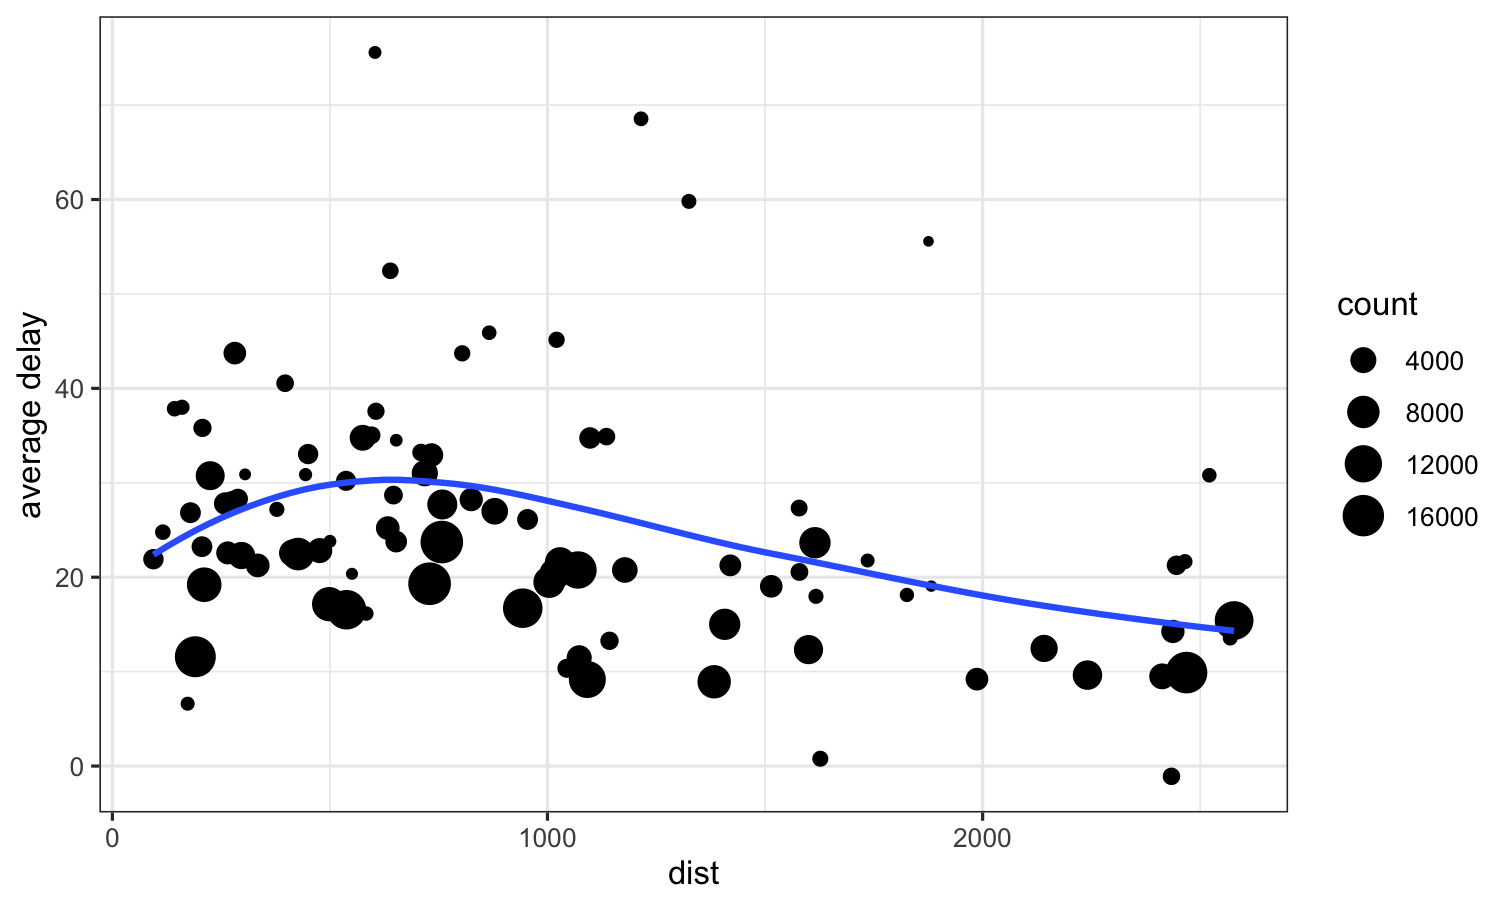
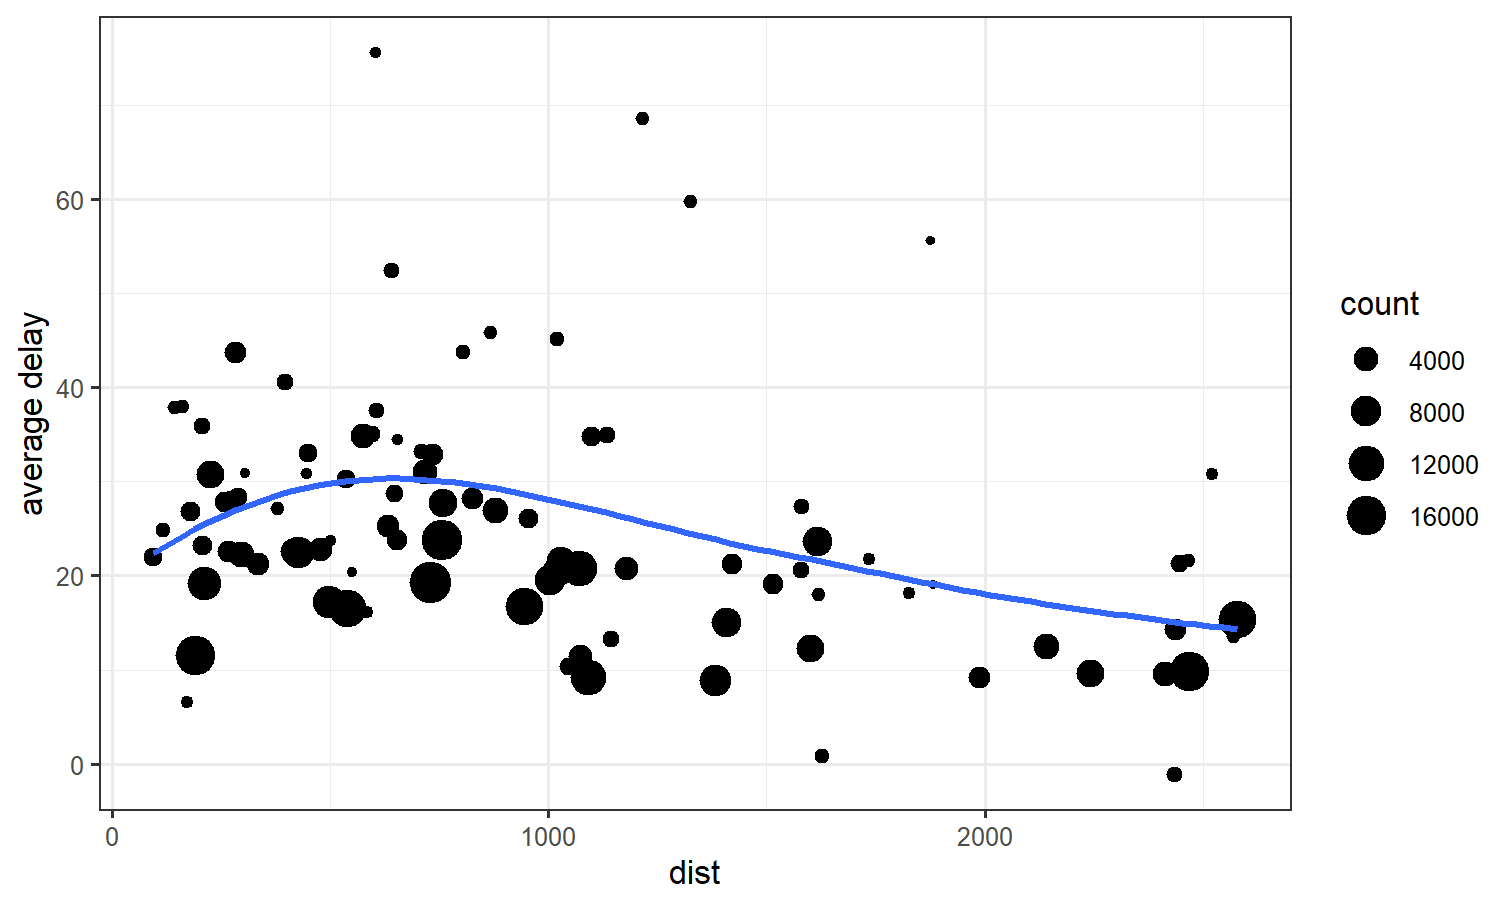
Minor cosmetic changes

diff --git a/intro_wrangling.html b/intro_wrangling.html
@@ -55,10 +55,10 @@ flights
 ## 4  2013     1     1      544            545        -1     1004
 ## 5  2013     1     1      554            600        -6      812
 ## 6  2013     1     1      554            558        -4      740
-## # … with 3.368e+05 more rows, and 12 more variables: sched_arr_time &lt;int&gt;,
-## #   arr_delay &lt;dbl&gt;, carrier &lt;chr&gt;, flight &lt;int&gt;, tailnum &lt;chr&gt;,
-## #   origin &lt;chr&gt;, dest &lt;chr&gt;, air_time &lt;dbl&gt;, distance &lt;dbl&gt;, hour &lt;dbl&gt;,
-## #   minute &lt;dbl&gt;, time_hour &lt;dttm&gt;
+## # ... with 3.368e+05 more rows, and 12 more variables:
+## #   sched_arr_time &lt;int&gt;, arr_delay &lt;dbl&gt;, carrier &lt;chr&gt;, flight &lt;int&gt;,
+## #   tailnum &lt;chr&gt;, origin &lt;chr&gt;, dest &lt;chr&gt;, air_time &lt;dbl&gt;,
+## #   distance &lt;dbl&gt;, hour &lt;dbl&gt;, minute &lt;dbl&gt;, time_hour &lt;dttm&gt;
 ```
 ---
 #filter()
@@ -78,7 +78,7 @@ filter(flights, month == 8, day == 21)
 ## 4  2013     8    21      453            500        -7      634
 ## 5  2013     8    21      528            530        -2      757
 ## 6  2013     8    21      536            545        -9      808
-## # … with 984 more rows, and 12 more variables: sched_arr_time &lt;int&gt;,
+## # ... with 984 more rows, and 12 more variables: sched_arr_time &lt;int&gt;,
 ## #   arr_delay &lt;dbl&gt;, carrier &lt;chr&gt;, flight &lt;int&gt;, tailnum &lt;chr&gt;,
 ## #   origin &lt;chr&gt;, dest &lt;chr&gt;, air_time &lt;dbl&gt;, distance &lt;dbl&gt;, hour &lt;dbl&gt;,
 ## #   minute &lt;dbl&gt;, time_hour &lt;dttm&gt;
@@ -106,7 +106,7 @@ filter(august21, origin == 'JFK' | origin == 'LGA')
 ## 4  2013     8    21      536            545        -9      808
 ## 5  2013     8    21      540            540         0      837
 ## 6  2013     8    21      544            545        -1      911
-## # … with 631 more rows, and 12 more variables: sched_arr_time &lt;int&gt;,
+## # ... with 631 more rows, and 12 more variables: sched_arr_time &lt;int&gt;,
 ## #   arr_delay &lt;dbl&gt;, carrier &lt;chr&gt;, flight &lt;int&gt;, tailnum &lt;chr&gt;,
 ## #   origin &lt;chr&gt;, dest &lt;chr&gt;, air_time &lt;dbl&gt;, distance &lt;dbl&gt;, hour &lt;dbl&gt;,
 ## #   minute &lt;dbl&gt;, time_hour &lt;dttm&gt;
@@ -134,7 +134,7 @@ filter(august21_jfk_lga, arr_delay &gt; 10 | dep_delay &gt; 10)
 ## 4  2013     8    21      555            600        -5      839
 ## 5  2013     8    21      558            600        -2      830
 ## 6  2013     8    21      625            600        25      903
-## # … with 100 more rows, and 12 more variables: sched_arr_time &lt;int&gt;,
+## # ... with 100 more rows, and 12 more variables: sched_arr_time &lt;int&gt;,
 ## #   arr_delay &lt;dbl&gt;, carrier &lt;chr&gt;, flight &lt;int&gt;, tailnum &lt;chr&gt;,
 ## #   origin &lt;chr&gt;, dest &lt;chr&gt;, air_time &lt;dbl&gt;, distance &lt;dbl&gt;, hour &lt;dbl&gt;,
 ## #   minute &lt;dbl&gt;, time_hour &lt;dttm&gt;
@@ -159,7 +159,7 @@ flights %&gt;% filter(month == 8 &amp; day == 21) %&gt;%
 ## 4  2013     8    21      555            600        -5      839
 ## 5  2013     8    21      558            600        -2      830
 ## 6  2013     8    21      625            600        25      903
-## # … with 100 more rows, and 12 more variables: sched_arr_time &lt;int&gt;,
+## # ... with 100 more rows, and 12 more variables: sched_arr_time &lt;int&gt;,
 ## #   arr_delay &lt;dbl&gt;, carrier &lt;chr&gt;, flight &lt;int&gt;, tailnum &lt;chr&gt;,
 ## #   origin &lt;chr&gt;, dest &lt;chr&gt;, air_time &lt;dbl&gt;, distance &lt;dbl&gt;, hour &lt;dbl&gt;,
 ## #   minute &lt;dbl&gt;, time_hour &lt;dttm&gt;
@@ -292,10 +292,10 @@ arrange(flights_dest, dest, month, day)
 ## 4 ABQ    2013     4    25     2023           2025        -2     2339
 ## 5 ABQ    2013     4    26     2020           2025        -5     2318
 ## 6 ABQ    2013     4    27     2020           2025        -5     2245
-## # … with 3.368e+05 more rows, and 11 more variables: sched_arr_time &lt;int&gt;,
-## #   arr_delay &lt;dbl&gt;, carrier &lt;chr&gt;, flight &lt;int&gt;, tailnum &lt;chr&gt;,
-## #   origin &lt;chr&gt;, air_time &lt;dbl&gt;, distance &lt;dbl&gt;, hour &lt;dbl&gt;,
-## #   minute &lt;dbl&gt;, time_hour &lt;dttm&gt;
+## # ... with 3.368e+05 more rows, and 11 more variables:
+## #   sched_arr_time &lt;int&gt;, arr_delay &lt;dbl&gt;, carrier &lt;chr&gt;, flight &lt;int&gt;,
+## #   tailnum &lt;chr&gt;, origin &lt;chr&gt;, air_time &lt;dbl&gt;, distance &lt;dbl&gt;,
+## #   hour &lt;dbl&gt;, minute &lt;dbl&gt;, time_hour &lt;dttm&gt;
 ```
 ---
 class: clear
@@ -315,10 +315,10 @@ arrange(flights_dest, desc(dest), month, day)
 ## 4 XNA    2013     1     2      656            705        -9     1014
 ## 5 XNA    2013     1     2      905            822        43     1313
 ## 6 XNA    2013     1     2     1531           1530         1     1846
-## # … with 3.368e+05 more rows, and 11 more variables: sched_arr_time &lt;int&gt;,
-## #   arr_delay &lt;dbl&gt;, carrier &lt;chr&gt;, flight &lt;int&gt;, tailnum &lt;chr&gt;,
-## #   origin &lt;chr&gt;, air_time &lt;dbl&gt;, distance &lt;dbl&gt;, hour &lt;dbl&gt;,
-## #   minute &lt;dbl&gt;, time_hour &lt;dttm&gt;
+## # ... with 3.368e+05 more rows, and 11 more variables:
+## #   sched_arr_time &lt;int&gt;, arr_delay &lt;dbl&gt;, carrier &lt;chr&gt;, flight &lt;int&gt;,
+## #   tailnum &lt;chr&gt;, origin &lt;chr&gt;, air_time &lt;dbl&gt;, distance &lt;dbl&gt;,
+## #   hour &lt;dbl&gt;, minute &lt;dbl&gt;, time_hour &lt;dttm&gt;
 ```
 ---
 #select()
@@ -341,7 +341,7 @@ flights_sml
 ## 4  2013     1     1      544            545     1004           1022
 ## 5  2013     1     1      554            600      812            837
 ## 6  2013     1     1      554            558      740            728
-## # … with 3.368e+05 more rows
+## # ... with 3.368e+05 more rows
 ```
 ---
 class: clear
@@ -386,7 +386,7 @@ rename(flights_sml,
 ## 4  2013     1     1            544            545         1004
 ## 5  2013     1     1            554            600          812
 ## 6  2013     1     1            554            558          740
-## # … with 3.368e+05 more rows, and 1 more variable: sched_arr_time &lt;int&gt;
+## # ... with 3.368e+05 more rows, and 1 more variable: sched_arr_time &lt;int&gt;
 ```
 ---
 class: clear
@@ -406,7 +406,7 @@ select(flights_sml, dep_time, everything())
 ## 4      544  2013     1     1            545     1004           1022
 ## 5      554  2013     1     1            600      812            837
 ## 6      554  2013     1     1            558      740            728
-## # … with 3.368e+05 more rows
+## # ... with 3.368e+05 more rows
 ```
 ---
 # mutate()
@@ -431,7 +431,7 @@ mutate(flights_sml, gain = arr_delay - dep_delay,
 ## 4  2013     1     1        -1       -18     1576      183   -17  517.
 ## 5  2013     1     1        -6       -25      762      116   -19  394.
 ## 6  2013     1     1        -4        12      719      150    16  288.
-## # … with 3.368e+05 more rows, and 1 more variable: gain_per_hour &lt;dbl&gt;
+## # ... with 3.368e+05 more rows, and 1 more variable: gain_per_hour &lt;dbl&gt;
 ```
 ---
 class: clear
@@ -453,7 +453,7 @@ transmute(flights, gain = arr_delay - dep_delay,
 ## 4   -17  3.05         -5.57
 ## 5   -19  1.93         -9.83
 ## 6    16  2.5           6.4 
-## # … with 3.368e+05 more rows
+## # ... with 3.368e+05 more rows
 ```
 ---
 #summarize()
@@ -499,7 +499,7 @@ summarize(delay = mean(dep_delay, na.rm = TRUE))
 ## 4  2013     1     4  8.95
 ## 5  2013     1     5  5.73
 ## 6  2013     1     6  7.15
-## # … with 359 more rows
+## # ... with 359 more rows
 ```
 ---
 class: clear
@@ -525,7 +525,7 @@ delays
 ## 4 ATL   17215  757.      23.7
 ## 5 AUS    2439 1514.      19.0
 ## 6 AVL     275  584.      16.2
-## # … with 90 more rows
+## # ... with 90 more rows
 ```
 ---
 class: clear
@@ -547,7 +547,8 @@ There are a large number of useful summary functions. We provide a few more exam
 ## average arrival delay
 not_canceled &lt;- filter(flights, !is.na(dep_delay) &amp; !is.na(arr_delay))
 not_canceled %&gt;% group_by(year, month, day) %&gt;% 
-  summarize(avg_delay = mean(arr_delay), avg_positive_delay = mean(arr_delay[arr_delay &gt; 0]))
+  summarize(avg_delay = mean(arr_delay), 
+            avg_positive_delay = mean(arr_delay[arr_delay &gt; 0]))
 ```
 
 ```
@@ -560,7 +561,7 @@ not_canceled %&gt;% group_by(year, month, day) %&gt;%
 ## 4  2013     1     4     -1.93               28.3
 ## 5  2013     1     5     -1.53               22.6
 ## 6  2013     1     6      4.24               24.4
-## # … with 359 more rows
+## # ... with 359 more rows
 ```
 ---
 class: clear
@@ -580,7 +581,7 @@ not_canceled %&gt;% group_by(dest) %&gt;%
 ## 4 HNL     10.0 
 ## 5 SEA      9.98
 ## 6 LAS      9.91
-## # … with 98 more rows
+## # ... with 98 more rows
 ```
 ---
 class: clear
@@ -601,7 +602,7 @@ not_canceled %&gt;% group_by(year,month,day) %&gt;%
 ## 4  2013     1     4        25     2358
 ## 5  2013     1     5        14     2357
 ## 6  2013     1     6        16     2355
-## # … with 359 more rows
+## # ... with 359 more rows
 ```
 ---
 class: clear
@@ -621,7 +622,7 @@ not_canceled %&gt;% group_by(year, month, day) %&gt;%
 ## 4  2013     1     2     2354           2359        -5      413
 ## 5  2013     1     3       32           2359        33      504
 ## 6  2013     1     3     2349           2359       -10      434
-## # … with 764 more rows, and 13 more variables: sched_arr_time &lt;int&gt;,
+## # ... with 764 more rows, and 13 more variables: sched_arr_time &lt;int&gt;,
 ## #   arr_delay &lt;dbl&gt;, carrier &lt;chr&gt;, flight &lt;int&gt;, tailnum &lt;chr&gt;,
 ## #   origin &lt;chr&gt;, dest &lt;chr&gt;, air_time &lt;dbl&gt;, distance &lt;dbl&gt;, hour &lt;dbl&gt;,
 ## #   minute &lt;dbl&gt;, time_hour &lt;dttm&gt;, r &lt;int&gt;
@@ -644,7 +645,7 @@ not_canceled %&gt;% group_by(year, month, day) %&gt;%
 ## 4  2013     1     4       3
 ## 5  2013     1     5       3
 ## 6  2013     1     6       2
-## # … with 359 more rows
+## # ... with 359 more rows
 ```
 ---
 class: clear
@@ -665,7 +666,7 @@ not_canceled %&gt;% group_by(dest) %&gt;%
 ## 4 TYS            0.206
 ## 5 BHM            0.171
 ## 6 DSM            0.170
-## # … with 98 more rows
+## # ... with 98 more rows
 ```
 ---
 class: clear
@@ -688,7 +689,7 @@ daily %&gt;% summarize(flights = n()) %&gt;%
 ## 4 ANC         8
 ## 5 ATL     17215
 ## 6 AUS      2439
-## # … with 99 more rows
+## # ... with 99 more rows
 ```
 ---
 class: clear
@@ -697,34 +698,34 @@ Be careful when peeling off nested groupings using a sequence of `\(\mathrm{summ
 ```r
 group_by(not_canceled, dest, month) %&gt;% 
   summarize(air_time = mean(air_time)) %&gt;% 
-  summarize(air_time = mean(air_time)) %&gt;% head(5)
+  summarize(air_time = mean(air_time))
 ```
 
 ```
-## # A tibble: 5 x 2
+## # A tibble: 104 x 2
 ##   dest  air_time
 ##   &lt;chr&gt;    &lt;dbl&gt;
 ## 1 ABQ      250. 
 ## 2 ACK       41.9
 ## 3 ALB       31.8
 ## 4 ANC      413. 
-## 5 ATL      113.
+## # ... with 100 more rows
 ```
 
 ```r
 group_by(not_canceled, dest) %&gt;% 
-  summarize(air_time = mean(air_time)) %&gt;% head(5)
+  summarize(air_time = mean(air_time))
 ```
 
 ```
-## # A tibble: 5 x 2
+## # A tibble: 104 x 2
 ##   dest  air_time
 ##   &lt;chr&gt;    &lt;dbl&gt;
 ## 1 ABQ      249. 
 ## 2 ACK       42.1
 ## 3 ALB       31.8
 ## 4 ANC      413. 
-## 5 ATL      113.
+## # ... with 100 more rows
 ```
 ---
 class: clear
@@ -732,36 +733,34 @@ class: clear
 ```r
 group_by(not_canceled, dest, month) %&gt;% 
   summarize(air_time = median(air_time)) %&gt;% 
-  summarize(air_time = median(air_time)) %&gt;% head(6)
+  summarize(air_time = median(air_time))
 ```
 
 ```
-## # A tibble: 6 x 2
+## # A tibble: 104 x 2
 ##   dest  air_time
 ##   &lt;chr&gt;    &lt;dbl&gt;
 ## 1 ABQ      244  
 ## 2 ACK       40.5
 ## 3 ALB       31  
 ## 4 ANC      415. 
-## 5 ATL      110  
-## 6 AUS      214.
+## # ... with 100 more rows
 ```
 
 ```r
 group_by(not_canceled, dest) %&gt;% 
-  summarize(air_time = median(air_time)) %&gt;% head(6)
+  summarize(air_time = median(air_time))
 ```
 
 ```
-## # A tibble: 6 x 2
+## # A tibble: 104 x 2
 ##   dest  air_time
 ##   &lt;chr&gt;    &lt;dbl&gt;
 ## 1 ABQ       246 
 ## 2 ACK        41 
 ## 3 ALB        31 
 ## 4 ANC       414.
-## 5 ATL       112 
-## 6 AUS       211
+## # ... with 100 more rows
 ```
 ---
 #ungroup()
@@ -780,9 +779,7 @@ summarize(daily, flights = n())
 ## 2  2013     1     2     943
 ## 3  2013     1     3     914
 ## 4  2013     1     4     915
-## 5  2013     1     5     720
-## 6  2013     1     6     832
-## # … with 359 more rows
+## # ... with 361 more rows
 ```
 
 ```r
@@ -815,9 +812,7 @@ flights_sml %&gt;% group_by(year, month, day) %&gt;%
 ## 2  2013     1     1       290       338     1134      213
 ## 3  2013     1     1       260       263      266       46
 ## 4  2013     1     1       155       166      277       68
-## 5  2013     1     1       157       174      213       60
-## 6  2013     1     1       216       222      708      121
-## # … with 3,603 more rows
+## # ... with 3,605 more rows
 ```
 ---
 class: clear
@@ -839,9 +834,7 @@ flights %&gt;% group_by(dest) %&gt;%
 ## 2  2013     1     1 IAH          20  0.000201 
 ## 3  2013     1     1 MIA          33  0.000235 
 ## 4  2013     1     1 ORD          12  0.0000424
-## 5  2013     1     1 FLL          19  0.0000938
-## 6  2013     1     1 ORD           8  0.0000283
-## # … with 1.311e+05 more rows
+## # ... with 1.311e+05 more rows
 ```
 ---
 class: clear
@@ -874,9 +867,7 @@ filter(players, min_rank(desc(H)) &lt;= 2 &amp; H &gt; 0)
 ## 2 aaronha01   1963 ML1      161   631   121   201
 ## 3 abbotji01   1999 MIL       20    21     0     2
 ## 4 abernte02   1955 WS1       40    26     1     4
-## 5 abernte02   1957 WS1       26    24     3     4
-## 6 abreubo01   1999 PHI      152   546   118   183
-## # … with 2,771 more rows
+## # ... with 2,773 more rows
 ```
 ---
 class: clear
@@ -894,9 +885,7 @@ mutate(players, G_rank = min_rank(G))
 ## 2 aaronha01   1955 ML1      153   602   105   189     13
 ## 3 aaronha01   1956 ML1      153   609   106   200     13
 ## 4 aaronha01   1957 ML1      151   615   118   198     12
-## 5 aaronha01   1958 ML1      153   601   109   196     13
-## 6 aaronha01   1959 ML1      154   629   116   223     17
-## # … with 1.983e+04 more rows
+## # ... with 1.983e+04 more rows
 ```
 ---
 class: clear
@@ -915,9 +904,7 @@ filter(players, AB &gt; 0, lag(AB) &gt; 0, H/AB &gt; lag(H)/lag(AB))
 ## 2 aaronha01   1956 ML1      153   609   106   200
 ## 3 aaronha01   1958 ML1      153   601   109   196
 ## 4 aaronha01   1959 ML1      154   629   116   223
-## 5 aaronha01   1961 ML1      155   603   115   197
-## 6 aaronha01   1964 ML1      145   570   103   187
-## # … with 7,871 more rows
+## # ... with 7,873 more rows
 ```
 ---
 class: clear
@@ -935,9 +922,7 @@ mutate(players, G_z = (G - mean(G)) / sd(G))
 ## 2 aaronha01   1955 ML1      153   602   105   189  0.519
 ## 3 aaronha01   1956 ML1      153   609   106   200  0.519
 ## 4 aaronha01   1957 ML1      151   615   118   198  0.411
-## 5 aaronha01   1958 ML1      153   601   109   196  0.519
-## 6 aaronha01   1959 ML1      154   629   116   223  0.573
-## # … with 1.983e+04 more rows
+## # ... with 1.983e+04 more rows
 ```
 ---
 class: clear
@@ -961,9 +946,7 @@ batting %&gt;% group_by(teamID,playerID) %&gt;%
 ## 2 ANA           2       0.258
 ## 3 ANA           3       0.281
 ## 4 ANA           4       0.301
-## 5 ARI           1       0.158
-## 6 ARI           2       0.258
-## # … with 229 more rows
+## # ... with 231 more rows
 ```
     </textarea>
 <style data-target="print-only">@media screen {.remark-slide-container{display:block;}.remark-slide-scaler{box-shadow:none;}}</style>
